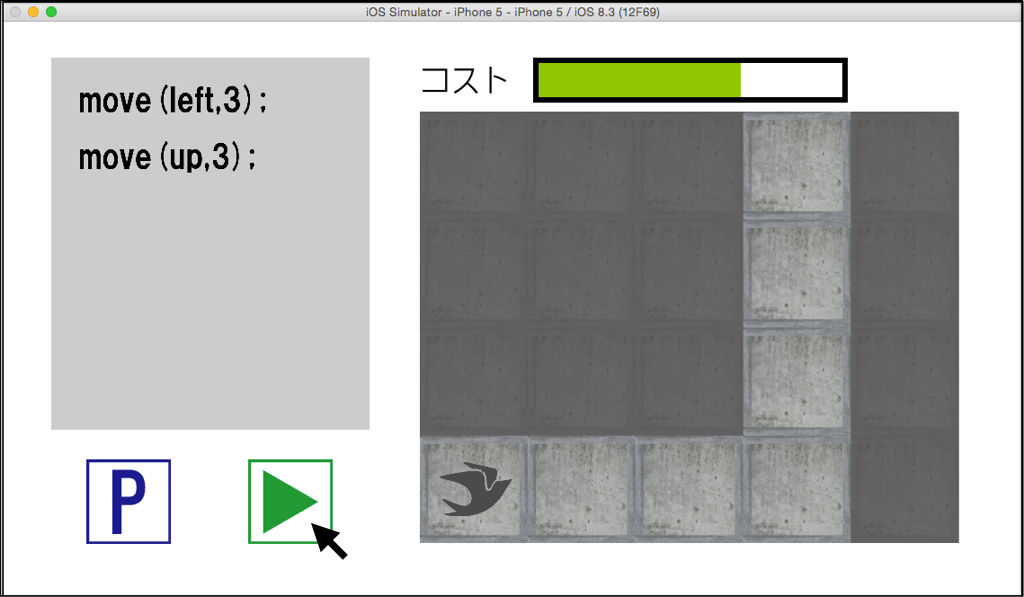
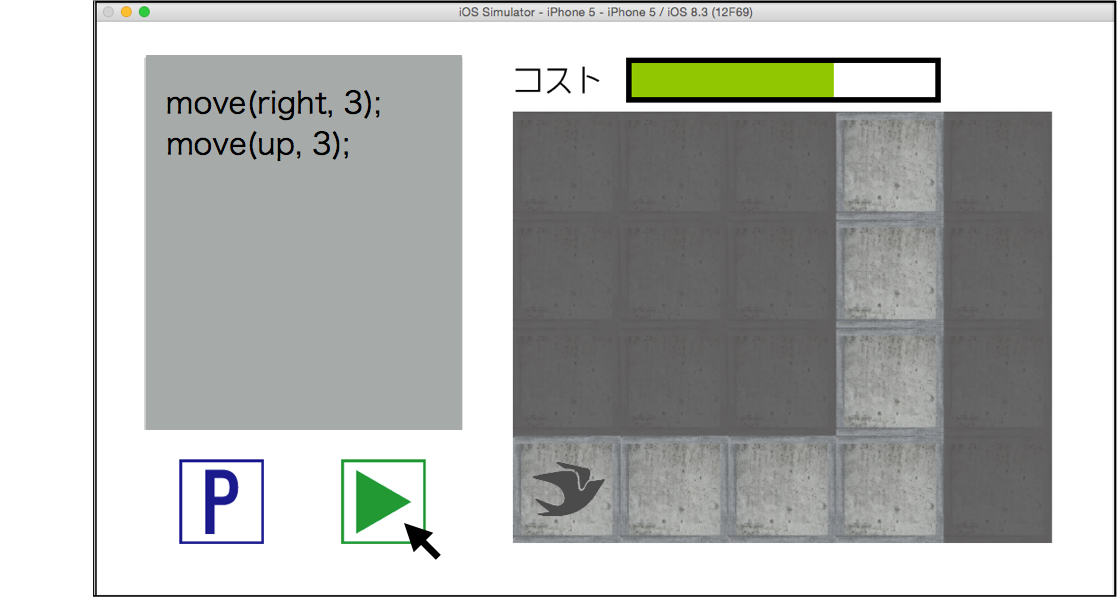
4章の修正を修正

diff --git a/group.tex b/group.tex
@@ -318,14 +318,14 @@
 \end{enumerate}
 \par 敵機まで移動して倒すまでをいかに短いソースコードで完了させるかを目指すゲームである。
 
-\bunseki{新保遥平}
-
 \begin{figure}[h]
 \begin{center}
 \includegraphics[width=12cm, bb=0 0 573 263]{img/4thParagraph/game.png}
 \end{center}
 \caption{ゲーム概要}
 \end{figure}
+
+\bunseki{新保遥平}
 
 \section{プログラミング画面}
 プログラミング画面ではユーザーが敵機を倒すためのソースコードを入力する。例えばfor文を入力したいときは図4.2のように画面に配置されたソースボタンをタップする。
@@ -347,7 +347,7 @@
 \end{figure}
 
 例えば下記のようなプログラムを組むこととする。
-\par move(left,3);
+\par move(right,3);
 \par move(up,3);
 \\
 \\
@@ -355,12 +355,12 @@
 
 \begin{figure}[H]
 \begin{center}
-\includegraphics[width=12cm, bb=0 0 1136 662]{img/4thParagraph/Prog-ra_programming2.png}
+\includegraphics[width=12cm, bb=0 0 1136 662]{img/4thParagraph/Prog-ra_programming1.png}
 \end{center}
 \caption{ソースコード入力後のプログラミング画面}
 \end{figure}
 
-このようにプログラムをタップで組むことが出来る。また、図4.5のように間違ったタイミングでソースボタンを押すと画面上にエラーが出てすぐに確認ができる。
+このようにプログラムをタップで組むことが出来る。また、図4.5のようのに、次に引数である数字を入れるべきところに「up」をタップしてしまうなど、間違ったタイミングでソースボタンを押すと画面上にエラーが出て、すぐに確認ができる。
 
 
 \begin{figure}[H]
@@ -369,12 +369,12 @@
 \end{center}
 \caption{ソースコードがエラー時のプログラミング画面}
 \end{figure}
-
+ユーザーはソースコードを入力後、プログラミング画面の左上の「下矢印」ボタンで戦闘画面に移動する。
 
 \bunseki{新保遥平}
 
 \section{戦闘画面}
-図4.6の戦闘画面はプログラミング画面で入力したソースコードを実際に動かすための画面である。ソースコードを入力後、ユーザーは戦闘画面に移動する。そして戦闘画面の左下にある三角の実行ボタンを押すことで、自機を動かすことが出来る。戦闘画面、左下の「P」と書かれたボタンでプログラミング画面に戻ることができる。現状では、あらかじめ設定されたプログラムでしか自機を動かすことが出来ない。
+図4.6の戦闘画面はプログラミング画面で入力したソースコードで自機を動かすための画面である。戦闘画面の左下にある三角の実行ボタンを押すことで、自機を動かすことが出来る。また戦闘画面、左下の「P」と書かれたボタンでプログラミング画面に戻ることができる。現状では、あらかじめ設定されたプログラムでしか自機を動かすことが出来ない。
 
 \begin{figure}[H]
 \begin{center}
@@ -392,10 +392,7 @@
 
 
 \subsection{教育性}
-このアプリではユーザーがソースコードの組み立て方を学ぶことを目的にしている。これを実現するために、このアプリにはコストとランクがある。ソースのボタンそれぞれにコストが設けられており、問題をクリアした際にコストの使用量が少ないほど簡潔にソースコードを組み立てることが出来たと判定し、図4.7のようにランクを与える。ランクが低かった場合、より良いランクにつながるヒントを与える。そして高いランクが与えられたときに、ユーザーを褒める言葉を表示する。このサイクルが次の問題への意欲につながる。またより簡潔なソースコードを組み立てることが出来るようになる。この流れをユーザーストーリーとしたものを図4.8に示す。
-\bunseki{新保遥平}
-
-
+このアプリではユーザーがより簡潔なソースコードを組み立てられるようになるために、コストとランクがある。ソースのボタンそれぞれにコストが設けられており、問題をクリアした際にコストの使用量が少ないほど簡潔にソースコードを組み立てることが出来たと判定し、図4.7のようにランクを与える。ランクが低かった場合、より良いランクにつながるヒントを与える。そして高いランクが与えられたときに、ユーザーを褒める言葉を表示する。このサイクルが次の問題への意欲につながる。またより簡潔なソースコードを組み立てることが出来るようになる。この流れをユーザーストーリーとしたものを図4.8に示す。
 
 \begin{figure}[H]
 \begin{center}
